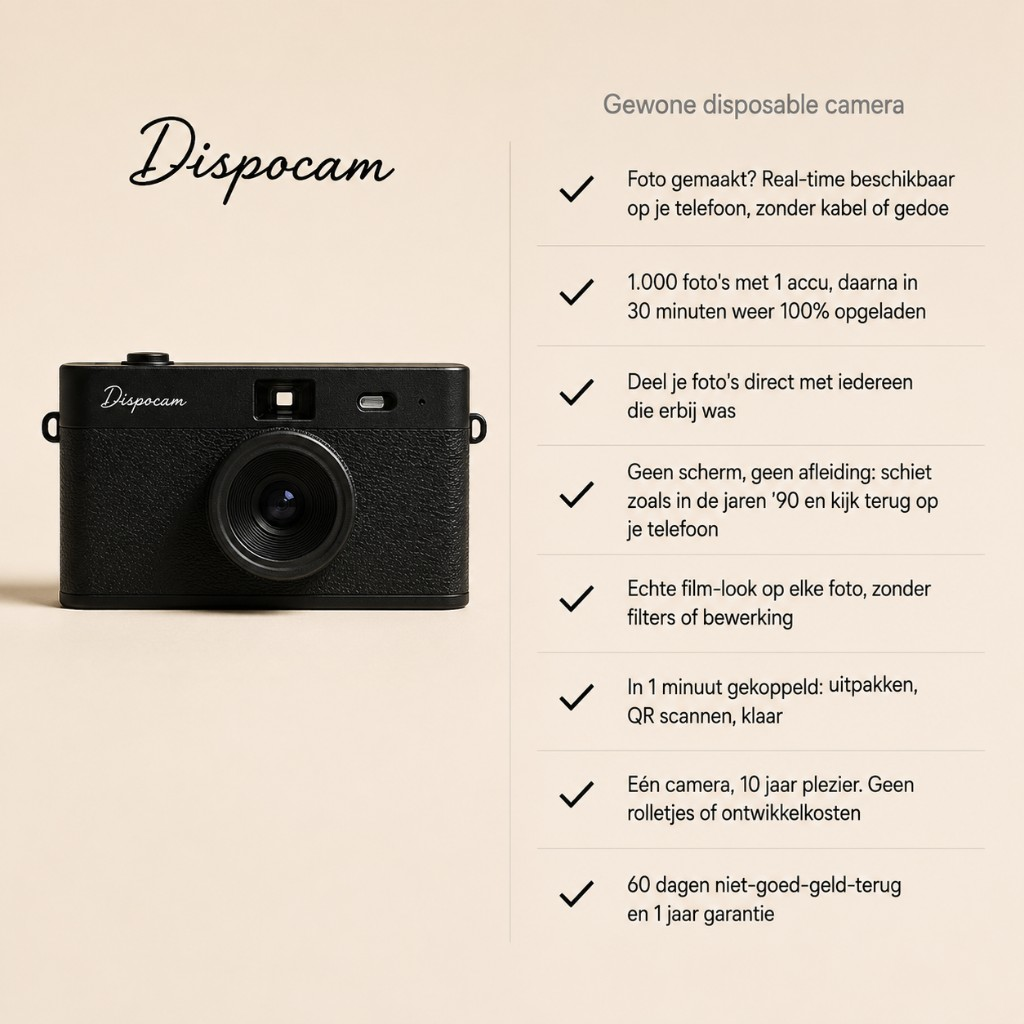
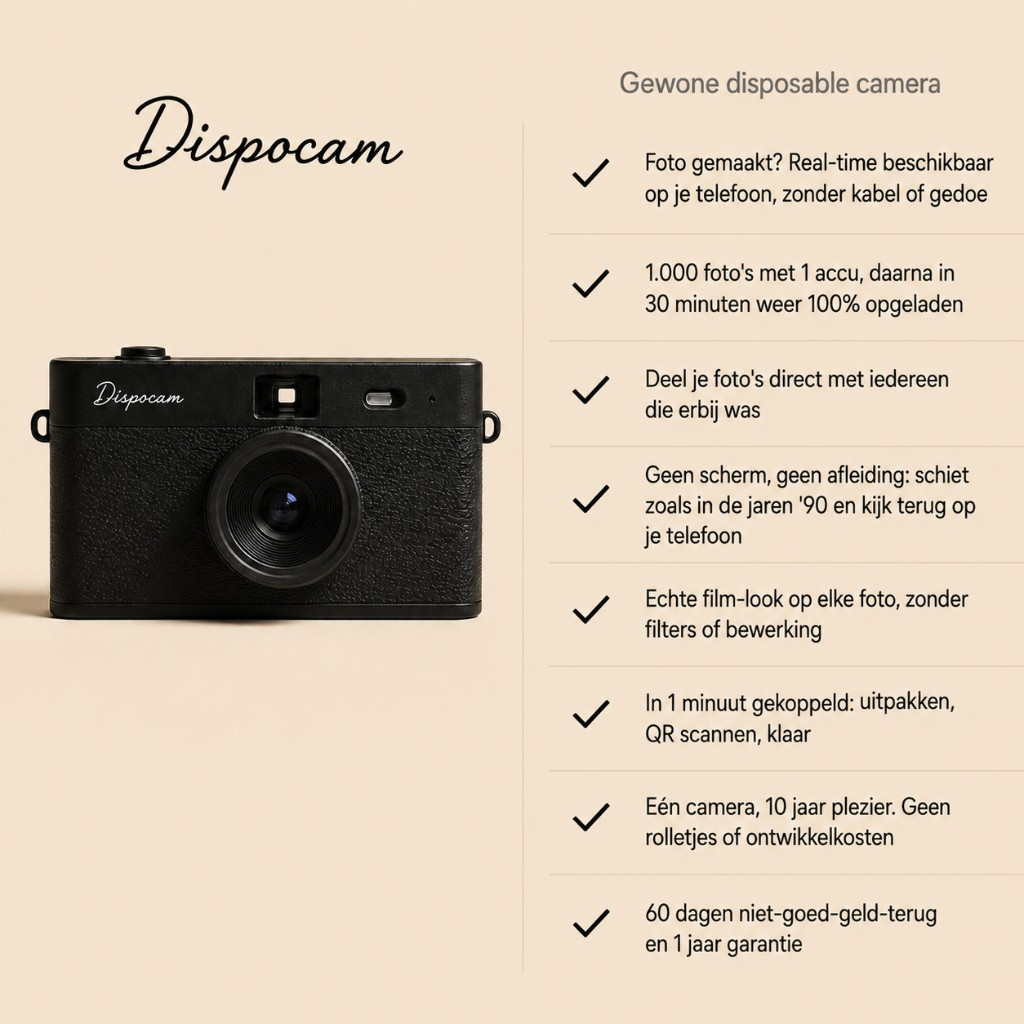
Add DispoCam gallery images 4–5 and per-image mobile fit for wide photo.
Ship updated product assets and contain-only layout for the phone gallery slide so other product photos keep their cropped presentation.

diff --git a/public/dispocam/dispocam-brand.css b/public/dispocam/dispocam-brand.css
@@ -119,6 +119,18 @@
   border-color: var(--border);
 }
 
+[data-track-product="dispocam"] .dtc-gallery__main--contain {
+  height: auto;
+}
+
+[data-track-product="dispocam"] .dtc-gallery__main--contain img {
+  width: 100%;
+  height: auto;
+  aspect-ratio: unset;
+  object-fit: contain;
+  max-height: min(420px, 58vh);
+}
+
 [data-track-product="dispocam"] .dtc-gallery__thumb.is-active {
   border-color: var(--text-primary);
 }

diff --git a/public/dispocam/dispocam-dtc-config.js b/public/dispocam/dispocam-dtc-config.js
@@ -65,6 +65,15 @@ window.HearingDTCConfig = {
       src: `${DISPOCAM_IMG}/dispocam-benefits.png`,
       alt: 'DispoCam — camera met voordelen: direct op je telefoon, 1.000 foto\'s, film-look en 60 dagen garantie',
     },
+    {
+      src: `${DISPOCAM_IMG}/dispocam-setup.png`,
+      alt: 'DispoCam koppelen in 1 minuut — QR scannen en direct gekoppeld op je telefoon',
+    },
+    {
+      src: `${DISPOCAM_IMG}/dispocam-phone-gallery.png`,
+      alt: 'DispoCam — foto\'s direct beschikbaar op je telefoon, met retro film-look',
+      fit: 'contain',
+    },
   ],
 
   trustIcons: [

diff --git a/public/hearing-nl/hearing-dtc-ui.js b/public/hearing-nl/hearing-dtc-ui.js
@@ -504,11 +504,15 @@
   function setGalleryImage(i) {
     const images = cfg().productImages || [];
     const main = document.getElementById('dtc-gallery-main');
+    const mainBtn = document.getElementById('dtc-gallery-main-btn');
     if (!main || !images[i]) return;
 
     selectedImage = i;
     main.src = images[i].src;
     main.alt = images[i].alt;
+    if (mainBtn) {
+      mainBtn.classList.toggle('dtc-gallery__main--contain', images[i].fit === 'contain');
+    }
     document.querySelectorAll('.dtc-gallery__thumb').forEach((t) => {
       t.classList.toggle('is-active', Number(t.dataset.index) === i);
     });